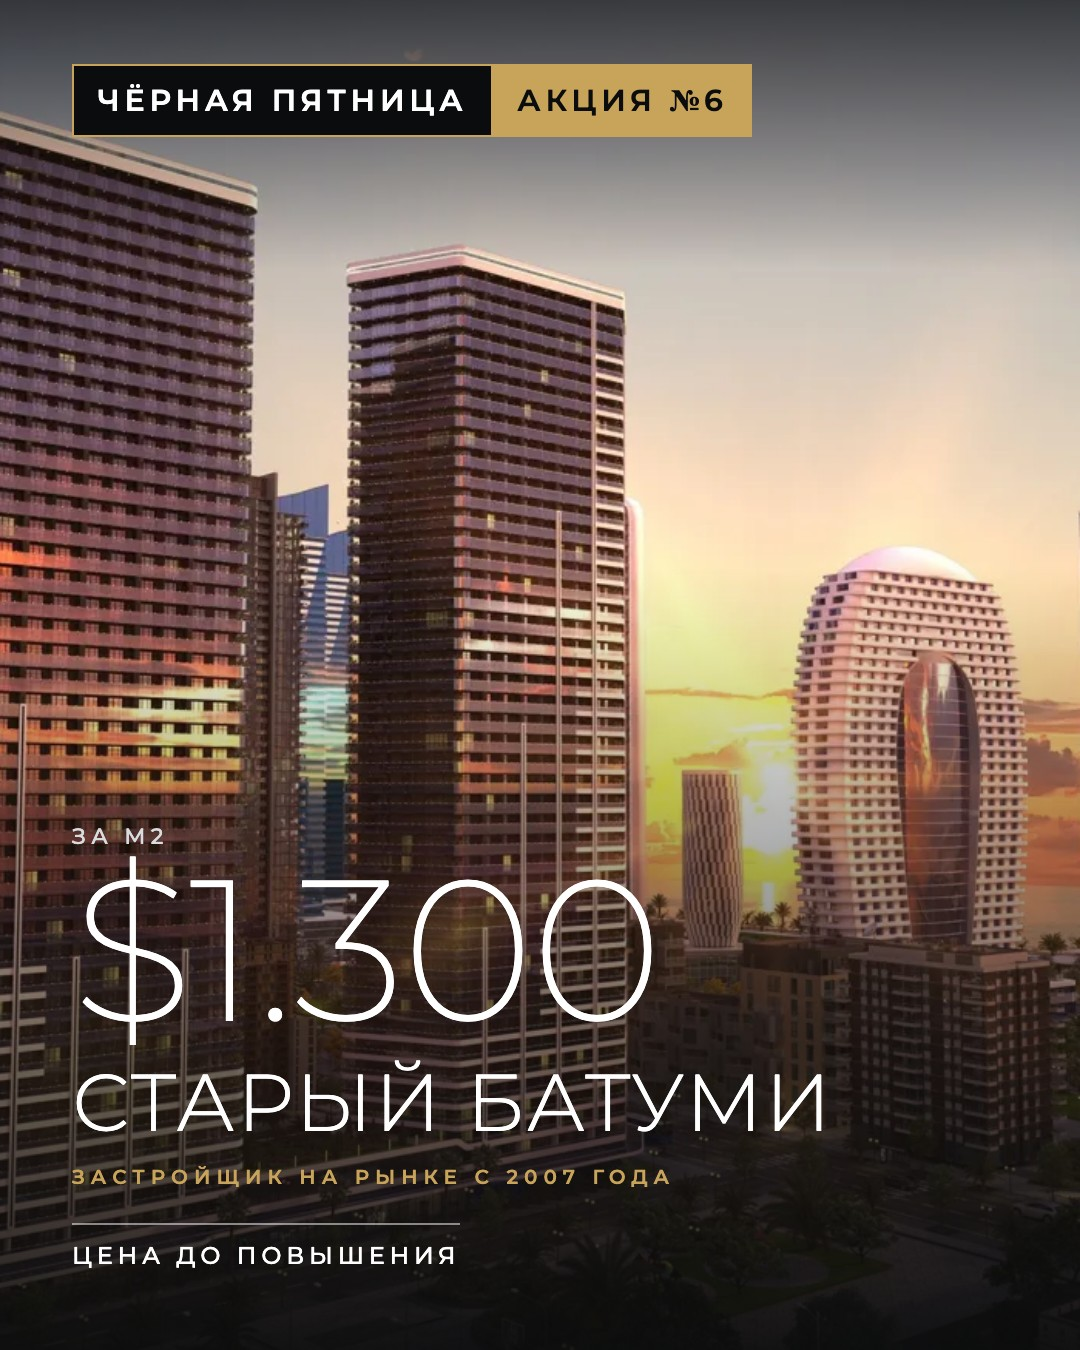
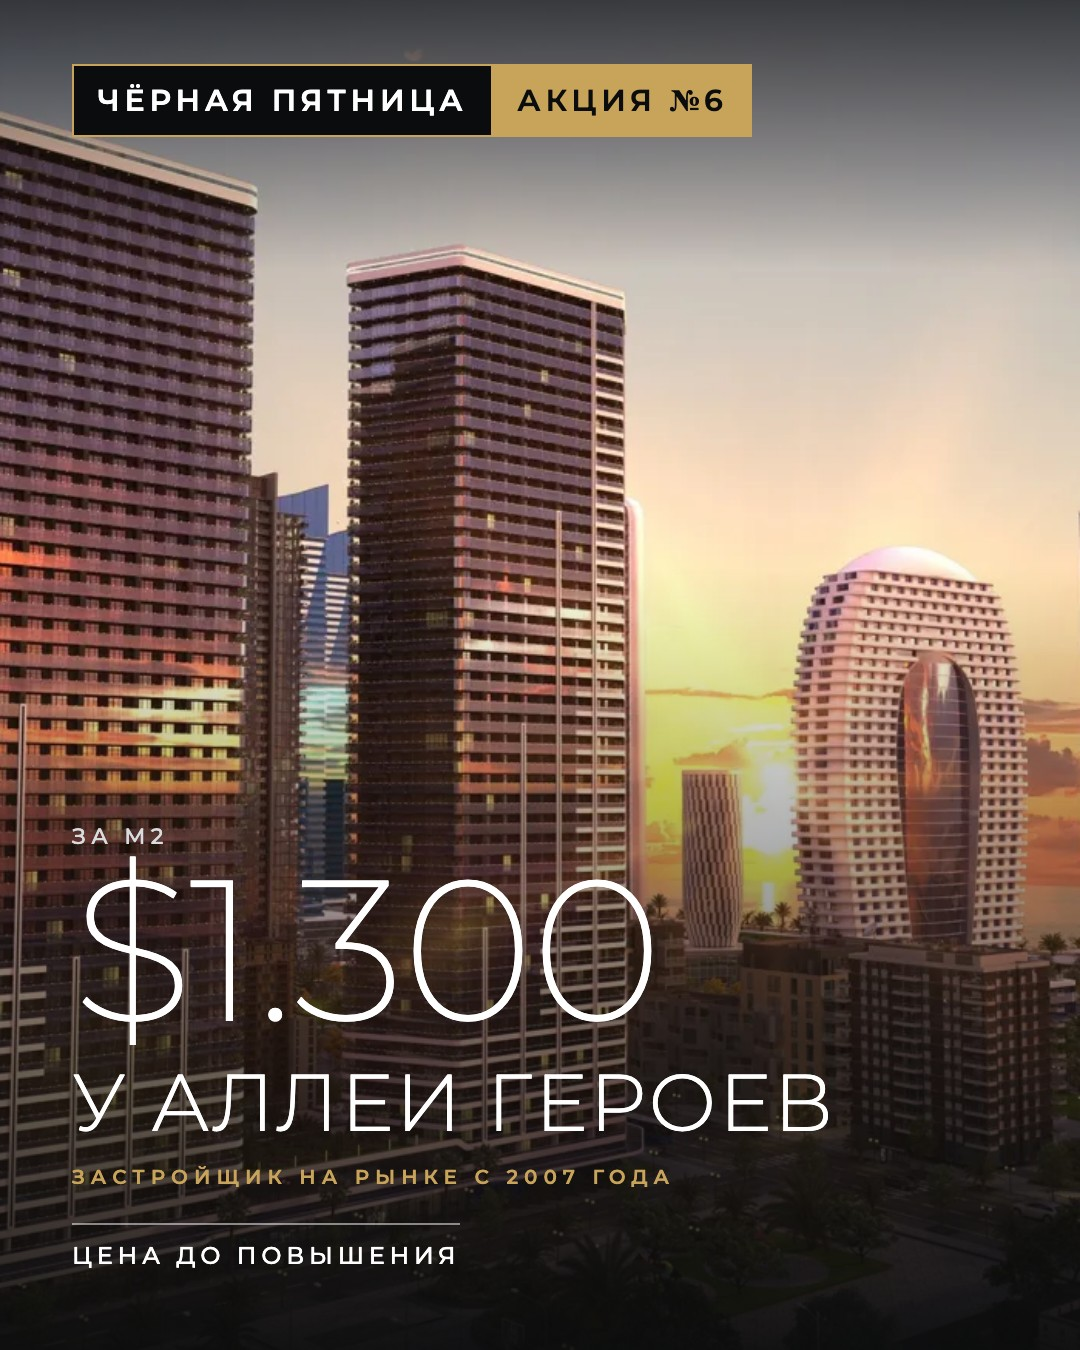
Пресейл Пиросмани: у Аллеи Героев, без ипотеки, фото видов

Changed region(s): [[0.0611, 0.7778, 0.7639, 0.84]]

diff --git a/akcii/index.html b/akcii/index.html
@@ -183,7 +183,7 @@ window.addEventListener('load',function(){var k=document.createElement('script')
     </div>
   </div>
 </header>
-<nav class="nav"><div class="wrap"><a href="#cube-oval">Cube и Oval</a><a href="#sport-city">Sport City</a><a href="#one-tower">ONE Tower</a><a href="#parallel">Parallel</a><a href="#swiss-village">Swiss Village</a><a href="#swiss-penthouse">Swiss Village · пентхаусы</a><a href="#presale-3">Новый бульвар</a><a href="#presale-2">Старый Батуми</a><a href="#presale-1">Новый дом</a></div></nav>
+<nav class="nav"><div class="wrap"><a href="#cube-oval">Cube и Oval</a><a href="#sport-city">Sport City</a><a href="#one-tower">ONE Tower</a><a href="#parallel">Parallel</a><a href="#swiss-village">Swiss Village</a><a href="#swiss-penthouse">Swiss Village · пентхаусы</a><a href="#presale-3">Новый бульвар</a><a href="#presale-2">У Аллеи Героев</a><a href="#presale-1">Новый дом</a></div></nav>
 <main>
   <section><div class="wrap">
     <div class="sec-head"><div><span class="kicker">Чёрная пятница</span><h2>Акции застройщиков</h2></div>
@@ -310,16 +310,16 @@ window.addEventListener('load',function(){var k=document.createElement('script')
   </div>
 </article>
 <article class="card" id="presale-2">
-  <div class="pic"><picture><source media="(min-width:20000px)" srcset="img/presale-p2.webp"><img src="img/presale-p2-800.webp" alt="Старый Батуми" width="1400" height="875" loading="lazy" decoding="async"></picture>
+  <div class="pic"><picture><source media="(min-width:20000px)" srcset="img/presale-p2.webp"><img src="img/presale-p2-800.webp" alt="У Аллеи Героев" width="1400" height="875" loading="lazy" decoding="async"></picture>
     <span class="tag"><i></i>Пресейл · цена до повышения</span></div>
   <div class="in">
-    <span class="name">Старый Батуми</span>
+    <span class="name">У Аллеи Героев</span>
     <h3>Рассрочка 0% на 3 года</h3>
     <div class="big num">от $1.300<small>за м2</small></div>
     <p class="lead">Застройщик на рынке с 2007 года. На старте цена одинаковая до 15 этажа</p>
-    <div class="why"><span class="wt">Сильные стороны</span><ul><li>Пешком до моря</li><li>Подземный паркинг, бассейн, SPA, фитнес и ресторан, лобби 24/7</li><li>Можно оплатить ипотекой или криптовалютой</li></ul></div>
+    <div class="why"><span class="wt">Сильные стороны</span><ul><li>Около 500 м до пляжа</li><li>Двор 4.000 м2, подземный паркинг, бассейн, SPA, фитнес и ресторан, лобби 24/7</li><li>Застройщик принимает оплату криптовалютой</li></ul></div>
     <dl class="facts"><div><dt>Квартиры</dt><dd>29 - 113 м2, без ремонта</dd></div><div><dt>Оплата</dt><dd>30% взнос, 0% до 36 месяцев</dd></div><div><dt>Ремонт</dt><dd>белый каркас +$200/м2, зелёный +$600/м2</dd></div><div><dt>Сдача</dt><dd>4 квартал 2029</dd></div></dl>
-    <a class="btn" data-lot="presale-2" href="https://t.me/maria_batumi_estate?text=%D0%97%D0%B4%D1%80%D0%B0%D0%B2%D1%81%D1%82%D0%B2%D1%83%D0%B9%D1%82%D0%B5%21%20%D0%98%D0%B7%20%D0%BA%D0%B0%D1%82%D0%B0%D0%BB%D0%BE%D0%B3%D0%B0%20%D0%B0%D0%BA%D1%86%D0%B8%D0%B9%3A%20%D0%BF%D1%80%D0%B5%D1%81%D0%B5%D0%B9%D0%BB%20%D0%A1%D1%82%D0%B0%D1%80%D1%8B%D0%B9%20%D0%91%D0%B0%D1%82%D1%83%D0%BC%D0%B8%2C%20%D0%BE%D1%82%20%241.300/%D0%BC2" target="_blank" rel="noopener">Узнать у Марии <span class="ar">→</span></a>
+    <a class="btn" data-lot="presale-2" href="https://t.me/maria_batumi_estate?text=%D0%97%D0%B4%D1%80%D0%B0%D0%B2%D1%81%D1%82%D0%B2%D1%83%D0%B9%D1%82%D0%B5%21%20%D0%98%D0%B7%20%D0%BA%D0%B0%D1%82%D0%B0%D0%BB%D0%BE%D0%B3%D0%B0%20%D0%B0%D0%BA%D1%86%D0%B8%D0%B9%3A%20%D0%BF%D1%80%D0%B5%D1%81%D0%B5%D0%B9%D0%BB%20%D1%83%20%D0%90%D0%BB%D0%BB%D0%B5%D0%B8%20%D0%93%D0%B5%D1%80%D0%BE%D0%B5%D0%B2%2C%20%D0%BE%D1%82%20%241.300/%D0%BC2" target="_blank" rel="noopener">Узнать у Марии <span class="ar">→</span></a>
   </div>
 </article>
 <article class="card" id="presale-1">
@@ -339,7 +339,7 @@ window.addEventListener('load',function(){var k=document.createElement('script')
   <section class="fb"><div class="wrap box">
     <div><span class="kicker">Обратная связь</span><h2>Что зацепило?</h2>
       <p>Нажмите на вариант - Мария, помощница Александра Пеккера, пришлёт планировки, свободные этажи и расчёт платежей под ваш бюджет.</p></div>
-    <div><div class="chips"><a data-lot="fb-cube-oval" href="https://t.me/maria_batumi_estate?text=%D0%97%D0%B4%D1%80%D0%B0%D0%B2%D1%81%D1%82%D0%B2%D1%83%D0%B9%D1%82%D0%B5%21%20%D0%98%D0%B7%20%D0%BA%D0%B0%D1%82%D0%B0%D0%BB%D0%BE%D0%B3%D0%B0%20%D0%B0%D0%BA%D1%86%D0%B8%D0%B9%3A%20%D0%B1%D0%BE%D0%BB%D1%8C%D1%88%D0%B5%20%D0%B2%D1%81%D0%B5%D0%B3%D0%BE%20%D0%BF%D0%BE%D0%BD%D1%80%D0%B0%D0%B2%D0%B8%D0%BB%D0%BE%D1%81%D1%8C%20-%20Metropol%20Cube%20%D0%B8%20Oval%2C%20%D0%BC%D0%B8%D0%BD%D1%83%D1%81%2022%25" target="_blank" rel="noopener">Cube и Oval</a><a data-lot="fb-sport-city" href="https://t.me/maria_batumi_estate?text=%D0%97%D0%B4%D1%80%D0%B0%D0%B2%D1%81%D1%82%D0%B2%D1%83%D0%B9%D1%82%D0%B5%21%20%D0%98%D0%B7%20%D0%BA%D0%B0%D1%82%D0%B0%D0%BB%D0%BE%D0%B3%D0%B0%20%D0%B0%D0%BA%D1%86%D0%B8%D0%B9%3A%20%D0%B1%D0%BE%D0%BB%D1%8C%D1%88%D0%B5%20%D0%B2%D1%81%D0%B5%D0%B3%D0%BE%20%D0%BF%D0%BE%D0%BD%D1%80%D0%B0%D0%B2%D0%B8%D0%BB%D0%BE%D1%81%D1%8C%20-%20Sport%20City%20%28ONE%20Development%29%2C%202%2B1%20%D0%BC%D0%B8%D0%BD%D1%83%D1%81%2027%25" target="_blank" rel="noopener">Sport City</a><a data-lot="fb-one-tower" href="https://t.me/maria_batumi_estate?text=%D0%97%D0%B4%D1%80%D0%B0%D0%B2%D1%81%D1%82%D0%B2%D1%83%D0%B9%D1%82%D0%B5%21%20%D0%98%D0%B7%20%D0%BA%D0%B0%D1%82%D0%B0%D0%BB%D0%BE%D0%B3%D0%B0%20%D0%B0%D0%BA%D1%86%D0%B8%D0%B9%3A%20%D0%B1%D0%BE%D0%BB%D1%8C%D1%88%D0%B5%20%D0%B2%D1%81%D0%B5%D0%B3%D0%BE%20%D0%BF%D0%BE%D0%BD%D1%80%D0%B0%D0%B2%D0%B8%D0%BB%D0%BE%D1%81%D1%8C%20-%20ONE%20Tower%20%28ONE%20Development%29%2C%203%2B1%20%D0%BF%D0%BE%20%241.999/%D0%BC2" target="_blank" rel="noopener">ONE Tower</a><a data-lot="fb-parallel" href="https://t.me/maria_batumi_estate?text=%D0%97%D0%B4%D1%80%D0%B0%D0%B2%D1%81%D1%82%D0%B2%D1%83%D0%B9%D1%82%D0%B5%21%20%D0%98%D0%B7%20%D0%BA%D0%B0%D1%82%D0%B0%D0%BB%D0%BE%D0%B3%D0%B0%20%D0%B0%D0%BA%D1%86%D0%B8%D0%B9%3A%20%D0%B1%D0%BE%D0%BB%D1%8C%D1%88%D0%B5%20%D0%B2%D1%81%D0%B5%D0%B3%D0%BE%20%D0%BF%D0%BE%D0%BD%D1%80%D0%B0%D0%B2%D0%B8%D0%BB%D0%BE%D1%81%D1%8C%20-%20Parallel%20%28Premium%20Group%29%2C%20%D0%BC%D0%B8%D0%BD%D1%83%D1%81%207%25" target="_blank" rel="noopener">Parallel</a><a data-lot="fb-swiss-village" href="https://t.me/maria_batumi_estate?text=%D0%97%D0%B4%D1%80%D0%B0%D0%B2%D1%81%D1%82%D0%B2%D1%83%D0%B9%D1%82%D0%B5%21%20%D0%98%D0%B7%20%D0%BA%D0%B0%D1%82%D0%B0%D0%BB%D0%BE%D0%B3%D0%B0%20%D0%B0%D0%BA%D1%86%D0%B8%D0%B9%3A%20%D0%B1%D0%BE%D0%BB%D1%8C%D1%88%D0%B5%20%D0%B2%D1%81%D0%B5%D0%B3%D0%BE%20%D0%BF%D0%BE%D0%BD%D1%80%D0%B0%D0%B2%D0%B8%D0%BB%D0%BE%D1%81%D1%8C%20-%20Swiss%20Village%20%28Rogantini%29%2C%201%2B1%20%D0%BC%D0%B8%D0%BD%D1%83%D1%81%205%25" target="_blank" rel="noopener">Swiss Village</a><a data-lot="fb-swiss-penthouse" href="https://t.me/maria_batumi_estate?text=%D0%97%D0%B4%D1%80%D0%B0%D0%B2%D1%81%D1%82%D0%B2%D1%83%D0%B9%D1%82%D0%B5%21%20%D0%98%D0%B7%20%D0%BA%D0%B0%D1%82%D0%B0%D0%BB%D0%BE%D0%B3%D0%B0%20%D0%B0%D0%BA%D1%86%D0%B8%D0%B9%3A%20%D0%B1%D0%BE%D0%BB%D1%8C%D1%88%D0%B5%20%D0%B2%D1%81%D0%B5%D0%B3%D0%BE%20%D0%BF%D0%BE%D0%BD%D1%80%D0%B0%D0%B2%D0%B8%D0%BB%D0%BE%D1%81%D1%8C%20-%20Swiss%20Village%20%28Rogantini%29%2C%20%D0%BF%D0%B5%D0%BD%D1%82%D1%85%D0%B0%D1%83%D1%81%20%D0%BD%D0%B0%2011%20%D1%8D%D1%82%D0%B0%D0%B6%D0%B5" target="_blank" rel="noopener">Swiss Village · пентхаусы</a><a data-lot="fb-presale-3" href="https://t.me/maria_batumi_estate?text=%D0%97%D0%B4%D1%80%D0%B0%D0%B2%D1%81%D1%82%D0%B2%D1%83%D0%B9%D1%82%D0%B5%21%20%D0%98%D0%B7%20%D0%BA%D0%B0%D1%82%D0%B0%D0%BB%D0%BE%D0%B3%D0%B0%20%D0%B0%D0%BA%D1%86%D0%B8%D0%B9%3A%20%D0%B1%D0%BE%D0%BB%D1%8C%D1%88%D0%B5%20%D0%B2%D1%81%D0%B5%D0%B3%D0%BE%20%D0%BF%D0%BE%D0%BD%D1%80%D0%B0%D0%B2%D0%B8%D0%BB%D0%BE%D1%81%D1%8C%20-%20%D0%BF%D1%80%D0%B5%D1%81%D0%B5%D0%B9%D0%BB%20%D0%9D%D0%BE%D0%B2%D1%8B%D0%B9%20%D0%B1%D1%83%D0%BB%D1%8C%D0%B2%D0%B0%D1%80%2C%2033%20%D1%8D%D1%82%D0%B0%D0%B6%D0%B0" target="_blank" rel="noopener">Новый бульвар</a><a data-lot="fb-presale-2" href="https://t.me/maria_batumi_estate?text=%D0%97%D0%B4%D1%80%D0%B0%D0%B2%D1%81%D1%82%D0%B2%D1%83%D0%B9%D1%82%D0%B5%21%20%D0%98%D0%B7%20%D0%BA%D0%B0%D1%82%D0%B0%D0%BB%D0%BE%D0%B3%D0%B0%20%D0%B0%D0%BA%D1%86%D0%B8%D0%B9%3A%20%D0%B1%D0%BE%D0%BB%D1%8C%D1%88%D0%B5%20%D0%B2%D1%81%D0%B5%D0%B3%D0%BE%20%D0%BF%D0%BE%D0%BD%D1%80%D0%B0%D0%B2%D0%B8%D0%BB%D0%BE%D1%81%D1%8C%20-%20%D0%BF%D1%80%D0%B5%D1%81%D0%B5%D0%B9%D0%BB%20%D0%A1%D1%82%D0%B0%D1%80%D1%8B%D0%B9%20%D0%91%D0%B0%D1%82%D1%83%D0%BC%D0%B8%2C%20%D0%BE%D1%82%20%241.300/%D0%BC2" target="_blank" rel="noopener">Старый Батуми</a><a data-lot="fb-presale-1" href="https://t.me/maria_batumi_estate?text=%D0%97%D0%B4%D1%80%D0%B0%D0%B2%D1%81%D1%82%D0%B2%D1%83%D0%B9%D1%82%D0%B5%21%20%D0%98%D0%B7%20%D0%BA%D0%B0%D1%82%D0%B0%D0%BB%D0%BE%D0%B3%D0%B0%20%D0%B0%D0%BA%D1%86%D0%B8%D0%B9%3A%20%D0%B1%D0%BE%D0%BB%D1%8C%D1%88%D0%B5%20%D0%B2%D1%81%D0%B5%D0%B3%D0%BE%20%D0%BF%D0%BE%D0%BD%D1%80%D0%B0%D0%B2%D0%B8%D0%BB%D0%BE%D1%81%D1%8C%20-%20%D0%BF%D1%80%D0%B5%D1%81%D0%B5%D0%B9%D0%BB%20%D0%9D%D0%BE%D0%B2%D1%8B%D0%B9%20%D0%B4%D0%BE%D0%BC%2C%20%D1%85%D0%BE%D1%87%D1%83%20%D0%B2%20%D0%BB%D0%B8%D1%81%D1%82%20%D0%BE%D0%B6%D0%B8%D0%B4%D0%B0%D0%BD%D0%B8%D1%8F" target="_blank" rel="noopener">Новый дом</a></div>
+    <div><div class="chips"><a data-lot="fb-cube-oval" href="https://t.me/maria_batumi_estate?text=%D0%97%D0%B4%D1%80%D0%B0%D0%B2%D1%81%D1%82%D0%B2%D1%83%D0%B9%D1%82%D0%B5%21%20%D0%98%D0%B7%20%D0%BA%D0%B0%D1%82%D0%B0%D0%BB%D0%BE%D0%B3%D0%B0%20%D0%B0%D0%BA%D1%86%D0%B8%D0%B9%3A%20%D0%B1%D0%BE%D0%BB%D1%8C%D1%88%D0%B5%20%D0%B2%D1%81%D0%B5%D0%B3%D0%BE%20%D0%BF%D0%BE%D0%BD%D1%80%D0%B0%D0%B2%D0%B8%D0%BB%D0%BE%D1%81%D1%8C%20-%20Metropol%20Cube%20%D0%B8%20Oval%2C%20%D0%BC%D0%B8%D0%BD%D1%83%D1%81%2022%25" target="_blank" rel="noopener">Cube и Oval</a><a data-lot="fb-sport-city" href="https://t.me/maria_batumi_estate?text=%D0%97%D0%B4%D1%80%D0%B0%D0%B2%D1%81%D1%82%D0%B2%D1%83%D0%B9%D1%82%D0%B5%21%20%D0%98%D0%B7%20%D0%BA%D0%B0%D1%82%D0%B0%D0%BB%D0%BE%D0%B3%D0%B0%20%D0%B0%D0%BA%D1%86%D0%B8%D0%B9%3A%20%D0%B1%D0%BE%D0%BB%D1%8C%D1%88%D0%B5%20%D0%B2%D1%81%D0%B5%D0%B3%D0%BE%20%D0%BF%D0%BE%D0%BD%D1%80%D0%B0%D0%B2%D0%B8%D0%BB%D0%BE%D1%81%D1%8C%20-%20Sport%20City%20%28ONE%20Development%29%2C%202%2B1%20%D0%BC%D0%B8%D0%BD%D1%83%D1%81%2027%25" target="_blank" rel="noopener">Sport City</a><a data-lot="fb-one-tower" href="https://t.me/maria_batumi_estate?text=%D0%97%D0%B4%D1%80%D0%B0%D0%B2%D1%81%D1%82%D0%B2%D1%83%D0%B9%D1%82%D0%B5%21%20%D0%98%D0%B7%20%D0%BA%D0%B0%D1%82%D0%B0%D0%BB%D0%BE%D0%B3%D0%B0%20%D0%B0%D0%BA%D1%86%D0%B8%D0%B9%3A%20%D0%B1%D0%BE%D0%BB%D1%8C%D1%88%D0%B5%20%D0%B2%D1%81%D0%B5%D0%B3%D0%BE%20%D0%BF%D0%BE%D0%BD%D1%80%D0%B0%D0%B2%D0%B8%D0%BB%D0%BE%D1%81%D1%8C%20-%20ONE%20Tower%20%28ONE%20Development%29%2C%203%2B1%20%D0%BF%D0%BE%20%241.999/%D0%BC2" target="_blank" rel="noopener">ONE Tower</a><a data-lot="fb-parallel" href="https://t.me/maria_batumi_estate?text=%D0%97%D0%B4%D1%80%D0%B0%D0%B2%D1%81%D1%82%D0%B2%D1%83%D0%B9%D1%82%D0%B5%21%20%D0%98%D0%B7%20%D0%BA%D0%B0%D1%82%D0%B0%D0%BB%D0%BE%D0%B3%D0%B0%20%D0%B0%D0%BA%D1%86%D0%B8%D0%B9%3A%20%D0%B1%D0%BE%D0%BB%D1%8C%D1%88%D0%B5%20%D0%B2%D1%81%D0%B5%D0%B3%D0%BE%20%D0%BF%D0%BE%D0%BD%D1%80%D0%B0%D0%B2%D0%B8%D0%BB%D0%BE%D1%81%D1%8C%20-%20Parallel%20%28Premium%20Group%29%2C%20%D0%BC%D0%B8%D0%BD%D1%83%D1%81%207%25" target="_blank" rel="noopener">Parallel</a><a data-lot="fb-swiss-village" href="https://t.me/maria_batumi_estate?text=%D0%97%D0%B4%D1%80%D0%B0%D0%B2%D1%81%D1%82%D0%B2%D1%83%D0%B9%D1%82%D0%B5%21%20%D0%98%D0%B7%20%D0%BA%D0%B0%D1%82%D0%B0%D0%BB%D0%BE%D0%B3%D0%B0%20%D0%B0%D0%BA%D1%86%D0%B8%D0%B9%3A%20%D0%B1%D0%BE%D0%BB%D1%8C%D1%88%D0%B5%20%D0%B2%D1%81%D0%B5%D0%B3%D0%BE%20%D0%BF%D0%BE%D0%BD%D1%80%D0%B0%D0%B2%D0%B8%D0%BB%D0%BE%D1%81%D1%8C%20-%20Swiss%20Village%20%28Rogantini%29%2C%201%2B1%20%D0%BC%D0%B8%D0%BD%D1%83%D1%81%205%25" target="_blank" rel="noopener">Swiss Village</a><a data-lot="fb-swiss-penthouse" href="https://t.me/maria_batumi_estate?text=%D0%97%D0%B4%D1%80%D0%B0%D0%B2%D1%81%D1%82%D0%B2%D1%83%D0%B9%D1%82%D0%B5%21%20%D0%98%D0%B7%20%D0%BA%D0%B0%D1%82%D0%B0%D0%BB%D0%BE%D0%B3%D0%B0%20%D0%B0%D0%BA%D1%86%D0%B8%D0%B9%3A%20%D0%B1%D0%BE%D0%BB%D1%8C%D1%88%D0%B5%20%D0%B2%D1%81%D0%B5%D0%B3%D0%BE%20%D0%BF%D0%BE%D0%BD%D1%80%D0%B0%D0%B2%D0%B8%D0%BB%D0%BE%D1%81%D1%8C%20-%20Swiss%20Village%20%28Rogantini%29%2C%20%D0%BF%D0%B5%D0%BD%D1%82%D1%85%D0%B0%D1%83%D1%81%20%D0%BD%D0%B0%2011%20%D1%8D%D1%82%D0%B0%D0%B6%D0%B5" target="_blank" rel="noopener">Swiss Village · пентхаусы</a><a data-lot="fb-presale-3" href="https://t.me/maria_batumi_estate?text=%D0%97%D0%B4%D1%80%D0%B0%D0%B2%D1%81%D1%82%D0%B2%D1%83%D0%B9%D1%82%D0%B5%21%20%D0%98%D0%B7%20%D0%BA%D0%B0%D1%82%D0%B0%D0%BB%D0%BE%D0%B3%D0%B0%20%D0%B0%D0%BA%D1%86%D0%B8%D0%B9%3A%20%D0%B1%D0%BE%D0%BB%D1%8C%D1%88%D0%B5%20%D0%B2%D1%81%D0%B5%D0%B3%D0%BE%20%D0%BF%D0%BE%D0%BD%D1%80%D0%B0%D0%B2%D0%B8%D0%BB%D0%BE%D1%81%D1%8C%20-%20%D0%BF%D1%80%D0%B5%D1%81%D0%B5%D0%B9%D0%BB%20%D0%9D%D0%BE%D0%B2%D1%8B%D0%B9%20%D0%B1%D1%83%D0%BB%D1%8C%D0%B2%D0%B0%D1%80%2C%2033%20%D1%8D%D1%82%D0%B0%D0%B6%D0%B0" target="_blank" rel="noopener">Новый бульвар</a><a data-lot="fb-presale-2" href="https://t.me/maria_batumi_estate?text=%D0%97%D0%B4%D1%80%D0%B0%D0%B2%D1%81%D1%82%D0%B2%D1%83%D0%B9%D1%82%D0%B5%21%20%D0%98%D0%B7%20%D0%BA%D0%B0%D1%82%D0%B0%D0%BB%D0%BE%D0%B3%D0%B0%20%D0%B0%D0%BA%D1%86%D0%B8%D0%B9%3A%20%D0%B1%D0%BE%D0%BB%D1%8C%D1%88%D0%B5%20%D0%B2%D1%81%D0%B5%D0%B3%D0%BE%20%D0%BF%D0%BE%D0%BD%D1%80%D0%B0%D0%B2%D0%B8%D0%BB%D0%BE%D1%81%D1%8C%20-%20%D0%BF%D1%80%D0%B5%D1%81%D0%B5%D0%B9%D0%BB%20%D1%83%20%D0%90%D0%BB%D0%BB%D0%B5%D0%B8%20%D0%93%D0%B5%D1%80%D0%BE%D0%B5%D0%B2%2C%20%D0%BE%D1%82%20%241.300/%D0%BC2" target="_blank" rel="noopener">У Аллеи Героев</a><a data-lot="fb-presale-1" href="https://t.me/maria_batumi_estate?text=%D0%97%D0%B4%D1%80%D0%B0%D0%B2%D1%81%D1%82%D0%B2%D1%83%D0%B9%D1%82%D0%B5%21%20%D0%98%D0%B7%20%D0%BA%D0%B0%D1%82%D0%B0%D0%BB%D0%BE%D0%B3%D0%B0%20%D0%B0%D0%BA%D1%86%D0%B8%D0%B9%3A%20%D0%B1%D0%BE%D0%BB%D1%8C%D1%88%D0%B5%20%D0%B2%D1%81%D0%B5%D0%B3%D0%BE%20%D0%BF%D0%BE%D0%BD%D1%80%D0%B0%D0%B2%D0%B8%D0%BB%D0%BE%D1%81%D1%8C%20-%20%D0%BF%D1%80%D0%B5%D1%81%D0%B5%D0%B9%D0%BB%20%D0%9D%D0%BE%D0%B2%D1%8B%D0%B9%20%D0%B4%D0%BE%D0%BC%2C%20%D1%85%D0%BE%D1%87%D1%83%20%D0%B2%20%D0%BB%D0%B8%D1%81%D1%82%20%D0%BE%D0%B6%D0%B8%D0%B4%D0%B0%D0%BD%D0%B8%D1%8F" target="_blank" rel="noopener">Новый дом</a></div>
       <a class="btn btn-dark" data-lot="fb-none" href="https://t.me/maria_batumi_estate?text=%D0%97%D0%B4%D1%80%D0%B0%D0%B2%D1%81%D1%82%D0%B2%D1%83%D0%B9%D1%82%D0%B5%21%20%D0%98%D0%B7%20%D0%BA%D0%B0%D1%82%D0%B0%D0%BB%D0%BE%D0%B3%D0%B0%20%D0%B0%D0%BA%D1%86%D0%B8%D0%B9%3A%20%D0%BD%D0%B8%D1%87%D0%B5%D0%B3%D0%BE%20%D0%BD%D0%B5%20%D0%BF%D0%BE%D0%B4%D0%BE%D1%88%D0%BB%D0%BE%2C%20%D1%80%D0%B0%D1%81%D1%81%D0%BA%D0%B0%D0%B6%D1%83%2C%20%D1%87%D1%82%D0%BE%20%D0%B8%D1%89%D1%83" target="_blank" rel="noopener">Ничего не подошло - написать, что ищу <span class="ar">→</span></a></div>
   </div></section>
 </main>
